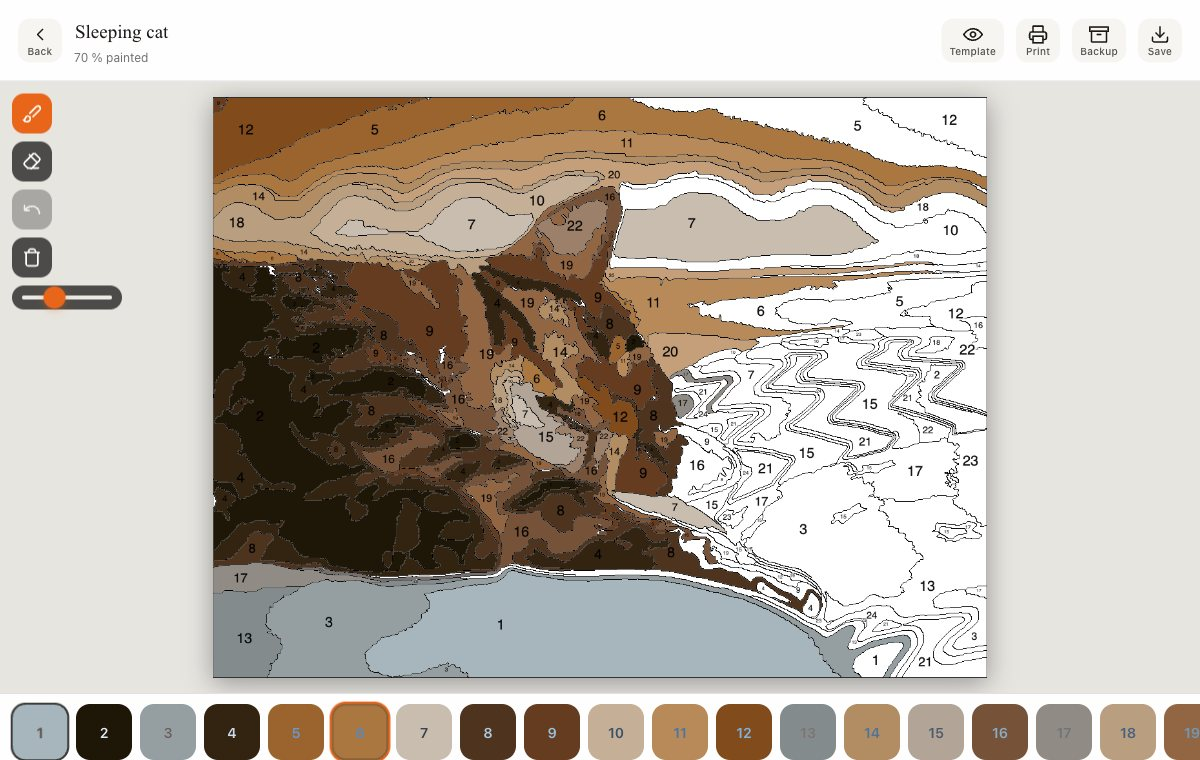
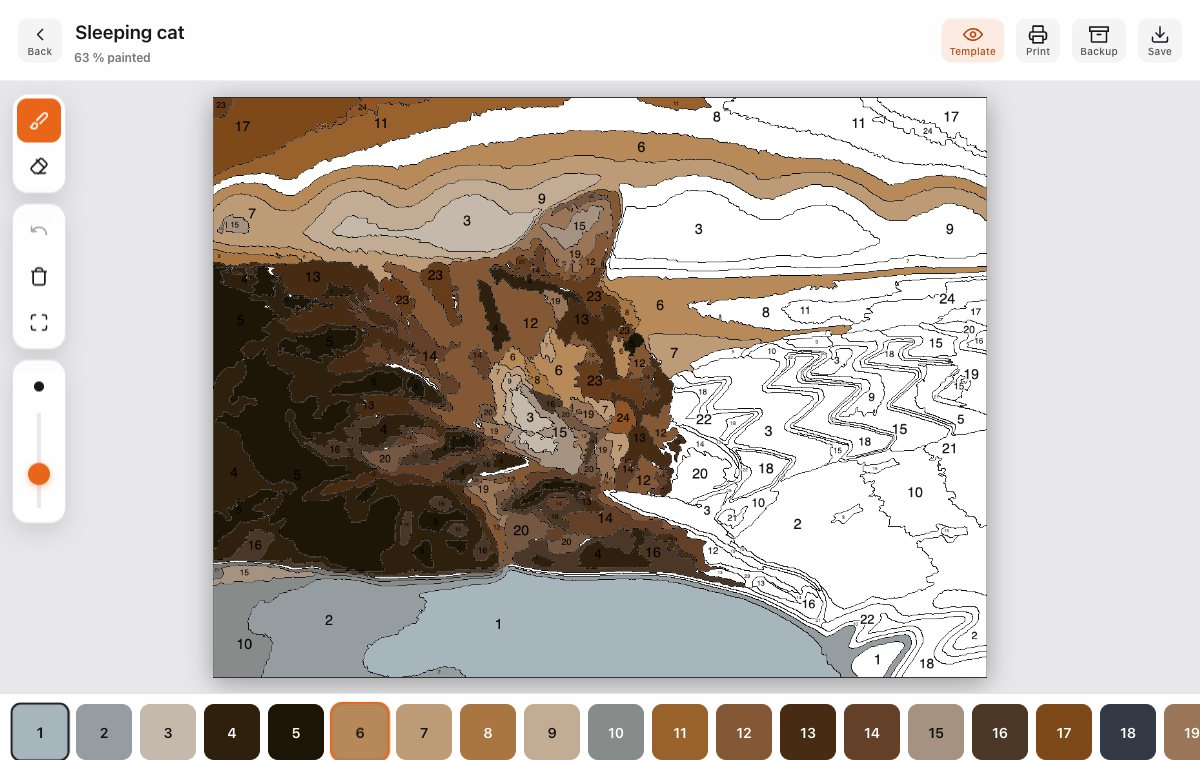
feat: v0.15.1 — FAQ, tablet layout, regenerated feature pictures
Landing: "Questions and answers" with eight disclosure items mirrored as
FAQPage structured data; a 640-899 px breakpoint for tablets in portrait
(two-column steps with a wide first step, two-column facts, capped picture
heights). Feature pictures, example images and og-image regenerated through
the real pipeline so the showcase shows the 0.15.0 paint toolbar. Service
worker cache pbn-v18.

diff --git a/index.html b/index.html
@@ -46,6 +46,78 @@
   "featureList": ["Photo to paint-by-numbers conversion", "Apple Pencil support", "Offline capable", "PDF export", "Project backup"]
 }
 </script>
+<script type="application/ld+json">
+{
+"@context": "https://schema.org",
+"@type": "FAQPage",
+"mainEntity": [
+{
+"@type": "Question",
+"name": "Which photos work best?",
+"acceptedAnswer": {
+"@type": "Answer",
+"text": "JPEG and PNG from any device. A clear subject with few busy areas gives fields that are easier to paint; the app scales large photos down by itself."
+}
+},
+{
+"@type": "Question",
+"name": "What do the detail levels mean?",
+"acceptedAnswer": {
+"@type": "Answer",
+"text": "The number of colors: Kids 8, Easy 16, Standard 24, Detailed 36, Fine 50. Fewer colors mean bigger fields and a quicker painting; more colors stay closer to the photo."
+}
+},
+{
+"@type": "Question",
+"name": "Do I have to stay inside the lines?",
+"acceptedAnswer": {
+"@type": "Answer",
+"text": "No. The brush paints wherever you put it, like real paint. The number in each field tells you which color belongs there, and picking a color briefly flashes all of its fields."
+}
+},
+{
+"@type": "Question",
+"name": "How do zoom, undo and clear work?",
+"acceptedAnswer": {
+"@type": "Answer",
+"text": "Pinch with two fingers, or hold Ctrl and scroll with a mouse. The frame button fits the picture to the screen again. Undo keeps the last 30 strokes; Clear needs a second tap within three seconds and can be undone."
+}
+},
+{
+"@type": "Question",
+"name": "Does the Apple Pencil change anything?",
+"acceptedAnswer": {
+"@type": "Answer",
+"text": "Yes. Pressure changes the stroke width, and touches from your resting hand are ignored while the pencil is drawing. Finger and mouse work the same way without pressure."
+}
+},
+{
+"@type": "Question",
+"name": "Is my progress saved?",
+"acceptedAnswer": {
+"@type": "Answer",
+"text": "Every stroke is saved on this device automatically and the project appears under “Your projects”. Backup writes a .pbn.json file you can import on another device to continue there."
+}
+},
+{
+"@type": "Question",
+"name": "How do I print the template?",
+"acceptedAnswer": {
+"@type": "Answer",
+"text": "Print opens two options: “Print now” sends the numbered template to your printer, “Save as PDF” makes an A4 PDF with the template on page one and the color guide with every swatch and hex code on page two."
+}
+},
+{
+"@type": "Question",
+"name": "Does it work offline and as an app?",
+"acceptedAnswer": {
+"@type": "Answer",
+"text": "Yes. Once opened, it keeps working without internet. On iPhone and iPad choose “Add to Home Screen” from the share menu, on Android or desktop use the browser’s install option. Nothing is uploaded; the only request to another server is the anonymous like counter."
+}
+}
+]
+}
+</script>
 <script>
 // Theme before first paint: stored choice wins, otherwise the system setting.
 (function () {
@@ -329,6 +401,24 @@
     .facts { grid-template-columns: minmax(0, 1.2fr) minmax(0, 1fr); gap: 64px; align-items: start; }
   }
 
+  /* FAQ: one question per row, plain disclosure elements; two columns from 900px. */
+  .faq-list { display: grid; border-top: 1px solid var(--border); }
+  .faq-list details { border-bottom: 1px solid var(--border); }
+  .faq-list summary {
+    display: flex; align-items: center; justify-content: space-between; gap: 16px;
+    min-height: 60px; padding: 14px 0; cursor: pointer; list-style: none;
+    font-size: 17px; font-weight: 600; letter-spacing: -0.01em; color: var(--text); text-align: left;
+  }
+  .faq-list summary::-webkit-details-marker { display: none; }
+  .faq-list summary svg { flex: none; width: 20px; height: 20px; color: var(--text-mute); transition: transform 0.2s ease; }
+  .faq-list details[open] summary svg { transform: rotate(45deg); }
+  .faq-list summary:hover svg { color: var(--text); }
+  .faq-list p { font-size: 15px; line-height: 1.6; max-width: 62ch; padding: 0 36px 18px 0; }
+  @media (min-width: 900px) {
+    .faq-list { grid-template-columns: 1fr 1fr; column-gap: 48px; border-top: none; }
+    .faq-list details:nth-child(-n+2) { border-top: 1px solid var(--border); }
+  }
+
   /* Support: the one tinted panel on the page. */
   .support {
     display: flex; flex-direction: column; align-items: center; text-align: center; gap: 22px;
@@ -386,6 +476,17 @@
     .steps li:first-child { grid-row: 1 / 3; }
     .steps li:first-child > img { flex: 1; min-height: 0; aspect-ratio: auto; }
     .steps li:not(:first-child) > img { aspect-ratio: 16 / 10; }
+  }
+  /* Tablets in portrait: two columns for the steps and the facts, the first step spans the row as a wide crop. */
+  @media (min-width: 640px) and (max-width: 899px) {
+    .landing { padding: 0 28px 56px; gap: 80px; }
+    .steps { grid-template-columns: 1fr 1fr; }
+    .steps li:first-child { grid-column: 1 / -1; }
+    .steps li:first-child > img { aspect-ratio: 21 / 9; }
+    .facts { grid-template-columns: minmax(0, 1.1fr) minmax(0, 1fr); gap: 40px; align-items: start; }
+    .show-row { grid-template-columns: 1fr; }
+    .show-row img { max-height: 520px; object-fit: cover; }
+    .compare-frame { max-height: 520px; aspect-ratio: 16 / 10; }
   }
   @media (max-width: 899px) {
     .coffee-btn .label-long { display: none; }
@@ -951,6 +1052,46 @@
             <p>Add it to your home screen from the share menu. It then opens full screen and works without internet.</p>
           </div>
         </div>
+      </div>
+    </section>
+
+    <section class="faq reveal" aria-labelledby="faq-title">
+      <div class="section-head">
+        <h2 id="faq-title">Questions and answers</h2>
+      </div>
+      <div class="faq-list">
+        <details>
+          <summary>Which photos work best?<svg viewBox="0 0 24 24" fill="none" stroke="currentColor" stroke-width="2" stroke-linecap="round" aria-hidden="true"><line x1="12" y1="5" x2="12" y2="19"/><line x1="5" y1="12" x2="19" y2="12"/></svg></summary>
+          <p>JPEG and PNG from any device. A clear subject with few busy areas gives fields that are easier to paint; the app scales large photos down by itself.</p>
+        </details>
+        <details>
+          <summary>What do the detail levels mean?<svg viewBox="0 0 24 24" fill="none" stroke="currentColor" stroke-width="2" stroke-linecap="round" aria-hidden="true"><line x1="12" y1="5" x2="12" y2="19"/><line x1="5" y1="12" x2="19" y2="12"/></svg></summary>
+          <p>The number of colors: Kids 8, Easy 16, Standard 24, Detailed 36, Fine 50. Fewer colors mean bigger fields and a quicker painting; more colors stay closer to the photo.</p>
+        </details>
+        <details>
+          <summary>Do I have to stay inside the lines?<svg viewBox="0 0 24 24" fill="none" stroke="currentColor" stroke-width="2" stroke-linecap="round" aria-hidden="true"><line x1="12" y1="5" x2="12" y2="19"/><line x1="5" y1="12" x2="19" y2="12"/></svg></summary>
+          <p>No. The brush paints wherever you put it, like real paint. The number in each field tells you which color belongs there, and picking a color briefly flashes all of its fields.</p>
+        </details>
+        <details>
+          <summary>How do zoom, undo and clear work?<svg viewBox="0 0 24 24" fill="none" stroke="currentColor" stroke-width="2" stroke-linecap="round" aria-hidden="true"><line x1="12" y1="5" x2="12" y2="19"/><line x1="5" y1="12" x2="19" y2="12"/></svg></summary>
+          <p>Pinch with two fingers, or hold Ctrl and scroll with a mouse. The frame button fits the picture to the screen again. Undo keeps the last 30 strokes; Clear needs a second tap within three seconds and can be undone.</p>
+        </details>
+        <details>
+          <summary>Does the Apple Pencil change anything?<svg viewBox="0 0 24 24" fill="none" stroke="currentColor" stroke-width="2" stroke-linecap="round" aria-hidden="true"><line x1="12" y1="5" x2="12" y2="19"/><line x1="5" y1="12" x2="19" y2="12"/></svg></summary>
+          <p>Yes. Pressure changes the stroke width, and touches from your resting hand are ignored while the pencil is drawing. Finger and mouse work the same way without pressure.</p>
+        </details>
+        <details>
+          <summary>Is my progress saved?<svg viewBox="0 0 24 24" fill="none" stroke="currentColor" stroke-width="2" stroke-linecap="round" aria-hidden="true"><line x1="12" y1="5" x2="12" y2="19"/><line x1="5" y1="12" x2="19" y2="12"/></svg></summary>
+          <p>Every stroke is saved on this device automatically and the project appears under “Your projects”. Backup writes a .pbn.json file you can import on another device to continue there.</p>
+        </details>
+        <details>
+          <summary>How do I print the template?<svg viewBox="0 0 24 24" fill="none" stroke="currentColor" stroke-width="2" stroke-linecap="round" aria-hidden="true"><line x1="12" y1="5" x2="12" y2="19"/><line x1="5" y1="12" x2="19" y2="12"/></svg></summary>
+          <p>Print opens two options: “Print now” sends the numbered template to your printer, “Save as PDF” makes an A4 PDF with the template on page one and the color guide with every swatch and hex code on page two.</p>
+        </details>
+        <details>
+          <summary>Does it work offline and as an app?<svg viewBox="0 0 24 24" fill="none" stroke="currentColor" stroke-width="2" stroke-linecap="round" aria-hidden="true"><line x1="12" y1="5" x2="12" y2="19"/><line x1="5" y1="12" x2="19" y2="12"/></svg></summary>
+          <p>Yes. Once opened, it keeps working without internet. On iPhone and iPad choose “Add to Home Screen” from the share menu, on Android or desktop use the browser’s install option. Nothing is uploaded; the only request to another server is the anonymous like counter.</p>
+        </details>
       </div>
     </section>
 

diff --git a/tests/feature-assets.playwright.js b/tests/feature-assets.playwright.js
@@ -4,8 +4,9 @@
 //   print-1.pdf / print-2.pdf          the two pages of the real PDF export
 // `tests/feature-assets.py` turns them into feat-levels.jpg, feat-paint.jpg and feat-print.jpg.
 // Run through a Playwright runner that hands in `page` while `npm start` serves :8000.
-// The whole run takes over a minute; if the runner's call times out (the Playwright MCP does),
-// paste the blocks one after the other — they only share `window.__payload` / `window.__pdfBlob`.
+// The whole run takes about a minute; since the 2026-09-21 worker speed-up it fits into one Playwright MCP
+// call. If a runner times out, paste the blocks one after the other — they only share `window.__payload` / `window.__pdfBlob`.
+// `tests/feature-assets.py` needs Pillow: `~/.pbn-tools-venv/bin/python tests/feature-assets.py` (venv outside the repo).
 async (page) => {
   const out = 'tests/.out/';
   await page.setViewportSize({ width: 1200, height: 760 });

diff --git a/sw.js b/sw.js
@@ -1,6 +1,6 @@
 // Minimal Service Worker: caches the shell so the app runs offline.
 // Bump CACHE name on any release to force clients to refetch shell assets.
-const CACHE = 'pbn-v17';
+const CACHE = 'pbn-v18';
 const FILES = ['./', './index.html', './manifest.webmanifest', './icon-192.png', './icon-512.png', './example.jpg', './example-after.jpg', './step-2.jpg', './step-3.jpg', './feat-levels.jpg', './feat-paint.jpg', './feat-print.jpg', './vendor/pdf-lib.min.js', './robots.txt', './sitemap.xml'];
 
 self.addEventListener('install', (e) => {

diff --git a/MEMORY.md b/MEMORY.md
@@ -263,3 +263,15 @@ Fix: the backup payload is now built **entirely synchronously** from `state.*` (
 
 Second pass the same day, after the user disliked the color-dot icon and asked for the screens after upload: the mark is now a single template field (paper, contour, painted lower half, a number) in `docs/logo.svg`, rasterised by `tests/icons.playwright.js` (icons plus the social preview, both run through the Playwright MCP against `npm start`). Setup got a side panel layout from 900 px with a vertical level list, level descriptions and the CTA inside the panel; the paint tools became three glass groups with a vertical brush-size slider, a live size dot and a "Fit to screen" button. Rule for future icon or preview changes: edit the SVG or the HTML in that spec and rerun it, never hand-edit the PNGs.
 
+---
+
+## 2026-09-22 — FAQ and a tablet breakpoint
+
+**Context:** After the redesign went live the user asked for tablet and phone tuning and for a FAQ so the individual functions are understood.
+
+**Decision / Insight:** A third breakpoint (640 to 899 px) covers tablets in portrait: the desktop grids would be too tight there and the phone stacking wasted the width (a 4:3 photo filled 550 px of height per step). The FAQ is eight native `<details>` items with a plus icon, answers written from the code (undo depth, clear confirmation, pressure and palm rejection, PDF pages), mirrored as `FAQPage` JSON-LD generated from the same list so the two never drift.
+
+**Rationale:** Disclosure elements need no script, work with keyboard and screen readers, and keep the landing short by default. Answers state what the app does, not marketing claims, so every sentence can be checked against the source.
+
+**Impact:** When a function changes (undo depth, presets, print flow), update the FAQ item and the JSON-LD together. Anything new on the landing page should be checked at 375, 768 and 1280 px, not only at the two extremes. The picture pipeline runs again end to end: both Playwright specs through the Playwright MCP, then `~/.pbn-tools-venv/bin/python tests/feature-assets.py` (Pillow lives in that venv outside the repo, the project itself stays dependency-free).
+

diff --git a/CHANGELOG.md b/CHANGELOG.md
@@ -6,6 +6,18 @@ Newest entries **on top**.
 
 ---
 
+## [0.15.1] — 2026-09-22 — FAQ and tablet layout
+
+### Added
+- "Questions and answers" section on the landing page: eight disclosure items (photos, detail levels, painting outside the lines, zoom/undo/clear, Apple Pencil, saving and backup, printing, offline/install), two columns from 900 px. The same questions are in the page as `FAQPage` structured data.
+
+### Changed
+- Tablets in portrait (640 to 899 px): steps in two columns with the first step as a wide 21:9 crop across the row, facts in two columns, showcase pictures and the hero comparison capped in height instead of filling the whole width at 4:3.
+- Landing pictures regenerated through the real pipeline (`tests/example-assets.playwright.js`, `tests/feature-assets.playwright.js`, `tests/feature-assets.py`): the paint-screen picture now shows the 0.15.0 toolbar; `og-image.png` re-rendered from the new example.
+- Service worker cache `pbn-v18`.
+
+---
+
 ## [0.15.0] — 2026-09-22 — Landing page redesign (taste-skill pass)
 
 ### Changed
